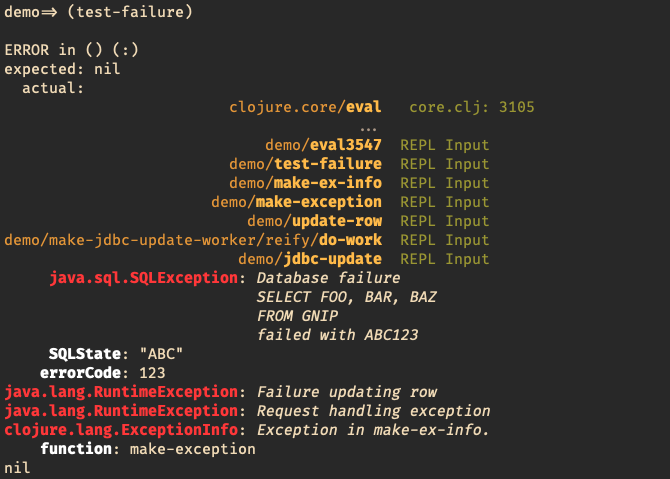
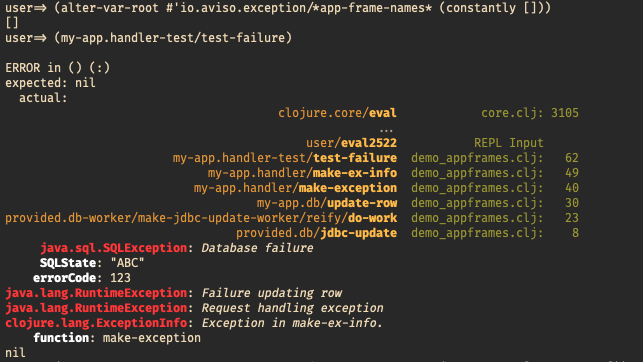
Improve documentation & sample code for app-frames

diff --git a/docs/exceptions.rst b/docs/exceptions.rst
@@ -122,7 +122,7 @@ Notice with custom app-frame-names, the matched frame names are also bolded. Thi
 ::
 
   ;; marks any frame that begins with demo
-  (alter-var-root #'io.aviso.exception/*app-frame-names* (constantly [#"demo.*"]))
+  (alter-var-root #'io.aviso.exception/*app-frame-names* (constantly [#"my-app.*"]))
 
 io.aviso.repl
 -------------
